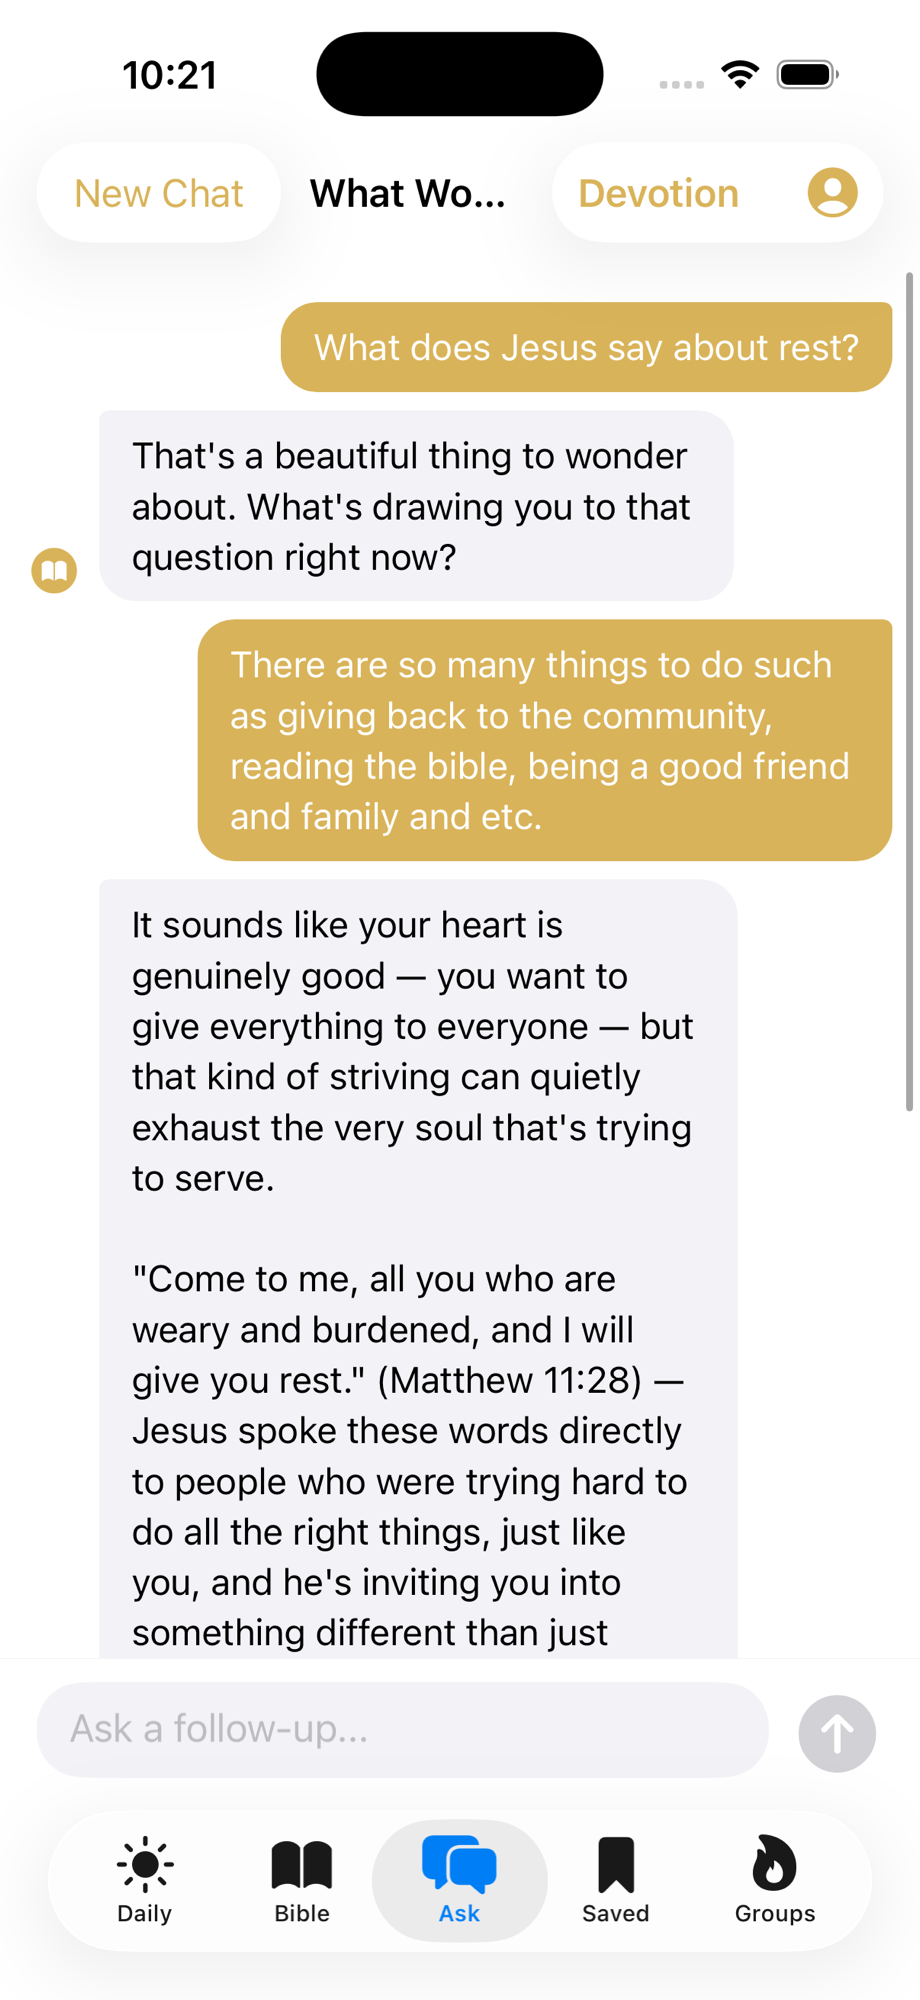
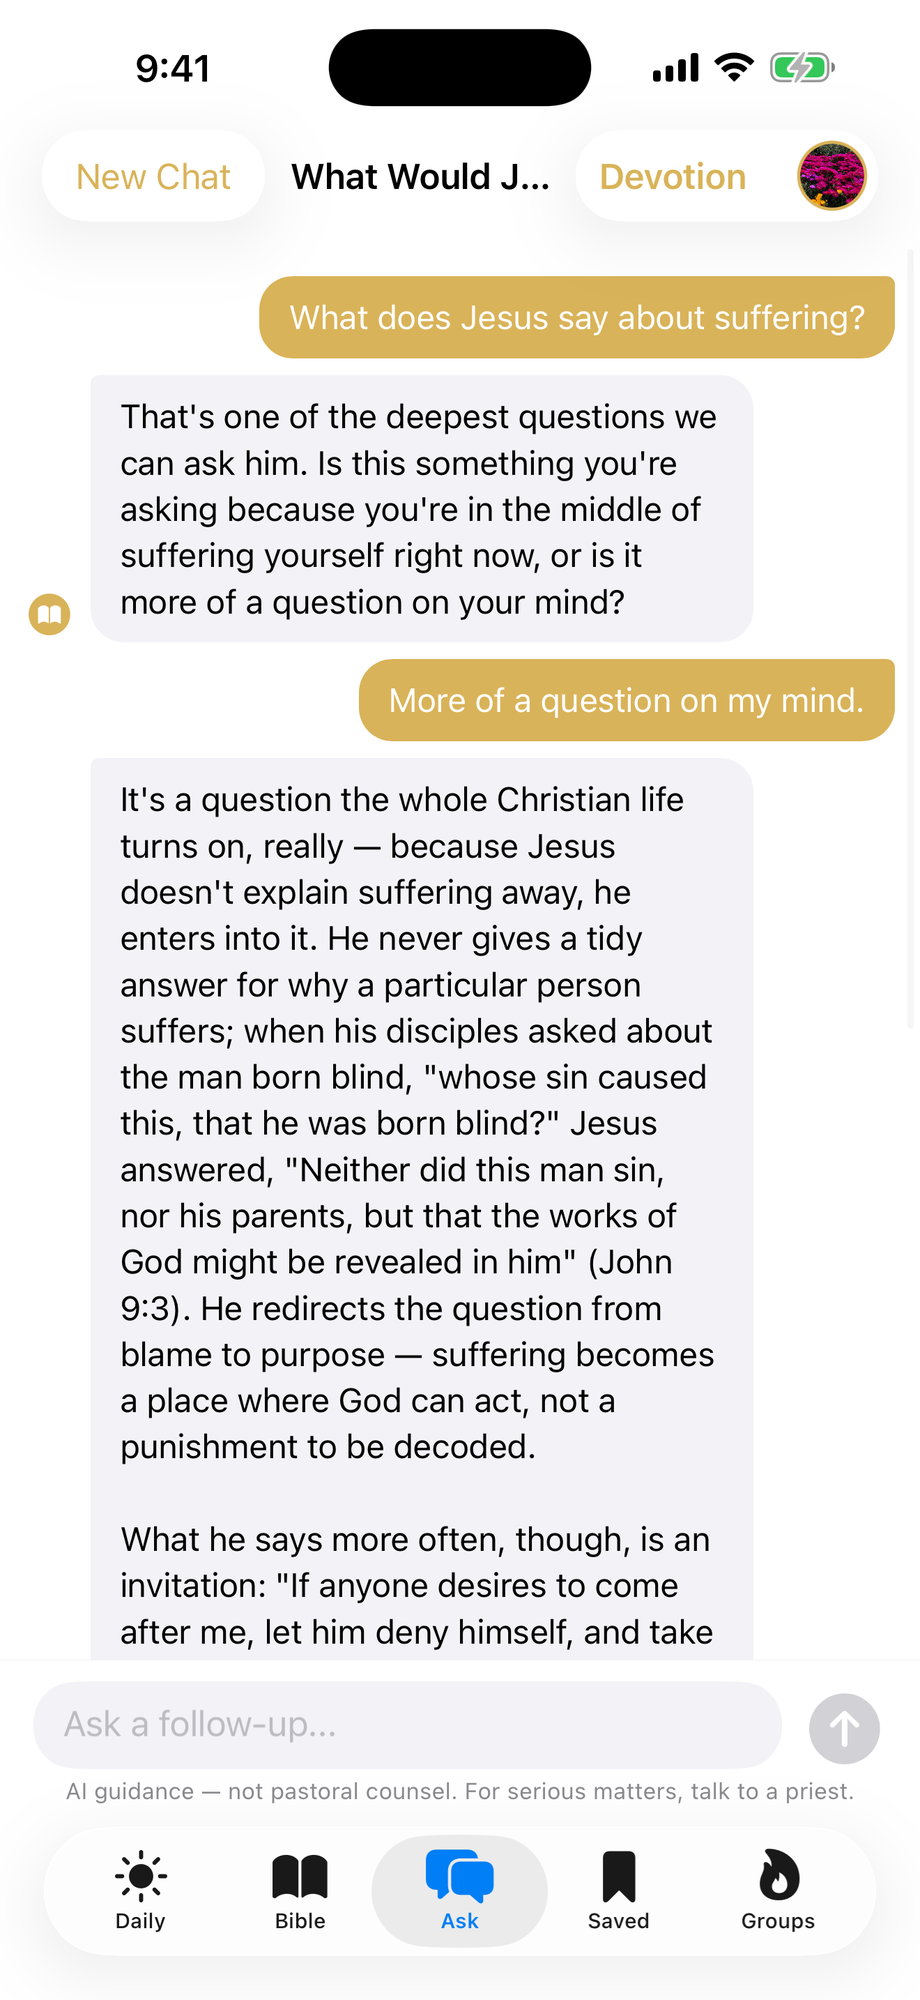
Present Cana as the Catholic Bible app it now is
Cana 2.0 is a Catholic app. The homepage now leads with what a Catholic opens it
for — today's Mass readings, a reflection on the Gospel, the saint of the day —
and describes the 73-book Bible (Douay-Rheims and the World English Bible
Catholic Edition) with explanations drawn from the Church Fathers and the
Catechism, in place of 8 translations / 66 books / Daily Verse. New title and
sharing tags, feature cards (Saint of the Day replaces Saved Verses), screenshot
captions, pricing lines (35,000+ explanations), and St. Jerome's "Ignorance of
the Scriptures is ignorance of Christ" in place of Romans 10:17.

The screenshots are the new 2.0 ones: Gospel Reflection, Verse Insight, Ask,
a devotional, and a group study on John 2.

Support: the daily readings rather than the daily verse; that AI features send
what you write to Anthropic and Magisterium AI, with permission asked first;
and in-app account deletion, which has replaced emailing us.

Claude-Session: https://claude.ai/code/session_012oKPPFvsRidmgTwPs8PFH5

diff --git a/index.html b/index.html
@@ -3,17 +3,17 @@
 <head>
   <meta charset="UTF-8" />
   <meta name="viewport" content="width=device-width, initial-scale=1.0" />
-  <title>Cana — Bible Chat, Study & Devotional</title>
-  <meta name="description" content="AI-powered Bible chat, daily devotionals, and Scripture study across 8 translations. Cana brings the Word to life on your iPhone." />
+  <title>Cana — Catholic Bible, Daily Mass Readings &amp; Saints</title>
+  <meta name="description" content="Today's Mass readings, a reflection on the Gospel, the saint of the day, and the complete 73-book Catholic Bible — explained the way the Church reads it." />
   <meta name="theme-color" content="#FAF5E5" />
 
   <!-- Open Graph / social -->
   <meta property="og:type" content="website" />
-  <meta property="og:title" content="Cana — Bible Chat, Study & Devotional" />
-  <meta property="og:description" content="AI-powered Bible chat, daily devotionals, and Scripture study across 8 translations." />
+  <meta property="og:title" content="Cana — Catholic Bible, Daily Mass Readings &amp; Saints" />
+  <meta property="og:description" content="Today's Mass readings, a reflection on the Gospel, the saint of the day, and the complete 73-book Catholic Bible — explained the way the Church reads it." />
   <meta name="twitter:card" content="summary_large_image" />
-  <meta name="twitter:title" content="Cana — Bible Chat, Study & Devotional" />
-  <meta name="twitter:description" content="AI-powered Bible chat, daily devotionals, and Scripture study across 8 translations." />
+  <meta name="twitter:title" content="Cana — Catholic Bible, Daily Mass Readings &amp; Saints" />
+  <meta name="twitter:description" content="Today's Mass readings, a reflection on the Gospel, the saint of the day, and the complete 73-book Catholic Bible — explained the way the Church reads it." />
   <style>
     /* ── Tokens ── */
     :root {
@@ -439,11 +439,11 @@
         Now Available on iPhone
       </div>
 
-      <h1 id="hero-heading">Bible Chat,<br>Study &amp; <em>Devotional.</em></h1>
+      <h1 id="hero-heading">Pray with Scripture,<br><em>every day.</em></h1>
 
       <p class="hero-sub">
-        Ask anything grounded in Scripture. Read 8 offline translations.
-        Grow daily with devotionals and plans built for real life.
+        Today's Mass readings, a reflection on the Gospel, and the saint of the day —
+        with the complete Catholic Bible, explained the way the Church reads it.
       </p>
 
       <div class="hero-ctas">
@@ -459,12 +459,12 @@
     <div class="hero-visual" aria-hidden="true">
       <div class="hero-phone-primary">
         <div class="iphone">
-          <img src="screenshots/ask.png" alt="Cana Ask feature — AI Bible chat screen" loading="eager" width="920" height="2000" />
+          <img src="screenshots/gospel-reflection.png" alt="Cana's daily Gospel Reflection" loading="eager" width="920" height="2000" />
         </div>
       </div>
       <div class="hero-phone-secondary">
         <div class="iphone">
-          <img src="screenshots/daily-verse.png" alt="Cana Daily Verse screen" loading="lazy" width="920" height="2000" />
+          <img src="screenshots/verse-insight.png" alt="A verse explained with the Church Fathers" loading="lazy" width="920" height="2000" />
         </div>
       </div>
     </div>
@@ -476,7 +476,7 @@
     <div class="trust-inner">
       <div class="trust-item">
         <svg width="18" height="18" viewBox="0 0 24 24" fill="none" stroke="currentColor" stroke-width="2" stroke-linecap="round" stroke-linejoin="round" aria-hidden="true"><path d="M2 3h6a4 4 0 0 1 4 4v14a3 3 0 0 0-3-3H2z"/><path d="M22 3h-6a4 4 0 0 0-4 4v14a3 3 0 0 1 3-3h7z"/></svg>
-        8 Bible Translations
+        73-Book Catholic Bible
       </div>
       <div class="trust-item">
         <svg width="18" height="18" viewBox="0 0 24 24" fill="none" stroke="currentColor" stroke-width="2" stroke-linecap="round" stroke-linejoin="round" aria-hidden="true"><path d="M1 6v16l7-4 8 4 7-4V2l-7 4-8-4-7 4z"/><path d="M8 2v16"/><path d="M16 6v16"/></svg>
@@ -488,7 +488,7 @@
       </div>
       <div class="trust-item">
         <svg width="18" height="18" viewBox="0 0 24 24" fill="none" stroke="currentColor" stroke-width="2" stroke-linecap="round" stroke-linejoin="round" aria-hidden="true"><circle cx="12" cy="12" r="10"/><polyline points="12 6 12 12 16 14"/></svg>
-        New Devotional Every Day
+        Daily Mass Readings
       </div>
     </div>
   </div>
@@ -506,23 +506,23 @@
           <svg width="26" height="26" viewBox="0 0 24 24" fill="none" stroke="currentColor" stroke-width="2" stroke-linecap="round" stroke-linejoin="round"><path d="M21 15a2 2 0 0 1-2 2H7l-4 4V5a2 2 0 0 1 2-2h14a2 2 0 0 1 2 2z"/></svg>
         </div>
         <h3>Ask</h3>
-        <p>Chat with an AI grounded in Scripture. Get guidance, explore passages, and ask anything about your faith — answered with chapter and verse.</p>
+        <p>Bring a question or something you're carrying. Cana answers from Scripture and the Catholic faith, and suggests a concrete next step.</p>
       </div>
 
       <div class="feature-card fade-up">
         <div class="feature-icon" aria-hidden="true">
           <svg width="26" height="26" viewBox="0 0 24 24" fill="none" stroke="currentColor" stroke-width="2" stroke-linecap="round" stroke-linejoin="round"><path d="M2 3h6a4 4 0 0 1 4 4v14a3 3 0 0 0-3-3H2z"/><path d="M22 3h-6a4 4 0 0 0-4 4v14a3 3 0 0 1 3-3h7z"/></svg>
         </div>
-        <h3>Bible Reader</h3>
-        <p>All 66 books across 8 offline translations — KJV, BSB, WEB, ASV, and more. Clean, distraction-free typography built for reading.</p>
+        <h3>The Catholic Bible</h3>
+        <p>All 73 books, in the Douay-Rheims or the World English Bible (Catholic Edition), fully offline — with an explanation for every verse drawn from the Church Fathers and the Catechism.</p>
       </div>
 
       <div class="feature-card fade-up">
         <div class="feature-icon" aria-hidden="true">
           <svg width="26" height="26" viewBox="0 0 24 24" fill="none" stroke="currentColor" stroke-width="2" stroke-linecap="round" stroke-linejoin="round"><circle cx="12" cy="12" r="5"/><line x1="12" y1="1" x2="12" y2="3"/><line x1="12" y1="21" x2="12" y2="23"/><line x1="4.22" y1="4.22" x2="5.64" y2="5.64"/><line x1="18.36" y1="18.36" x2="19.78" y2="19.78"/><line x1="1" y1="12" x2="3" y2="12"/><line x1="21" y1="12" x2="23" y2="12"/><line x1="4.22" y1="19.78" x2="5.64" y2="18.36"/><line x1="18.36" y1="5.64" x2="19.78" y2="4.22"/></svg>
         </div>
-        <h3>Daily Verse</h3>
-        <p>Start each morning with a curated verse, devotional, and reflection question. A quiet moment with Scripture before the noise starts.</p>
+        <h3>Daily Mass Readings</h3>
+        <p>The day's readings, following the liturgical calendar, and a reflection on the Gospel: what's happening, how the Church reads it, and what it asks of you.</p>
       </div>
 
       <div class="feature-card fade-up">
@@ -530,15 +530,15 @@
           <svg width="26" height="26" viewBox="0 0 24 24" fill="none" stroke="currentColor" stroke-width="2" stroke-linecap="round" stroke-linejoin="round"><path d="M3 18v-6a9 9 0 0 1 18 0v6"/><path d="M21 19a2 2 0 0 1-2 2h-1a2 2 0 0 1-2-2v-3a2 2 0 0 1 2-2h3zM3 19a2 2 0 0 0 2 2h1a2 2 0 0 0 2-2v-3a2 2 0 0 0-2-2H3z"/></svg>
         </div>
         <h3>Devotionals</h3>
-        <p>AI-guided devotional sessions and multi-day plans for whatever you're walking through — anxiety, gratitude, grief, doubt, and more.</p>
+        <p>Turn a conversation into a devotional to pray with, or a multi-day plan for whatever you're walking through — grief, doubt, gratitude, forgiveness.</p>
       </div>
 
       <div class="feature-card fade-up">
         <div class="feature-icon" aria-hidden="true">
           <svg width="26" height="26" viewBox="0 0 24 24" fill="none" stroke="currentColor" stroke-width="2" stroke-linecap="round" stroke-linejoin="round"><path d="M19 21l-7-5-7 5V5a2 2 0 0 1 2-2h10a2 2 0 0 1 2 2z"/></svg>
         </div>
-        <h3>Saved Verses</h3>
-        <p>Bookmark passages that speak to you and add personal notes. Your highlights sync privately with iCloud — always there when you need them.</p>
+        <h3>Saint of the Day</h3>
+        <p>Meet the saints the Church remembers each day, with classic sacred art and a short biography of their life and witness.</p>
       </div>
 
       <div class="feature-card fade-up">
@@ -546,7 +546,7 @@
           <svg width="26" height="26" viewBox="0 0 24 24" fill="none" stroke="currentColor" stroke-width="2" stroke-linecap="round" stroke-linejoin="round"><path d="M17 21v-2a4 4 0 0 0-4-4H5a4 4 0 0 0-4 4v2"/><circle cx="9" cy="7" r="4"/><path d="M23 21v-2a4 4 0 0 0-3-3.87"/><path d="M16 3.13a4 4 0 0 1 0 7.75"/></svg>
         </div>
         <h3>Small Groups</h3>
-        <p>Study Scripture together. Share verses, reflections, and guided group prompts with your church small group or a circle of friends.</p>
+        <p>Run a Bible study with your parish group or friends: a ready-made guide with historical context, how the Church reads the passage, and questions to discuss.</p>
       </div>
 
     </div>
@@ -557,7 +557,7 @@
     <div class="screenshots-inner">
       <div class="screenshots-header fade-up">
         <p class="section-eyebrow">✦ See It in Action</p>
-        <h2 class="section-heading" id="screenshots-heading">More than a Bible app.<br>Built for everyday faith.</h2>
+        <h2 class="section-heading" id="screenshots-heading">Scripture, read with<br>the Church.</h2>
         <p class="section-sub">Five ways Cana meets you where you are.</p>
       </div>
 
@@ -565,47 +565,47 @@
 
         <div class="screenshot-item fade-up">
           <div class="iphone">
-            <img src="screenshots/daily-verse.png" alt="Daily Verse screen showing today's scripture and devotional" loading="lazy" width="920" height="2000" />
+            <img src="screenshots/gospel-reflection.png" alt="The daily Gospel Reflection" loading="lazy" width="920" height="2000" />
           </div>
-          <p class="screenshot-label">Daily</p>
-          <p class="screenshot-title">Verse &amp; Devotional</p>
-          <p class="screenshot-desc">A curated verse, reflection, and devotional — every morning.</p>
+          <p class="screenshot-label">Today</p>
+          <p class="screenshot-title">Gospel Reflection</p>
+          <p class="screenshot-desc">The day's readings, then a reflection on the Gospel — every day of the year.</p>
         </div>
 
         <div class="screenshot-item fade-up">
           <div class="iphone">
-            <img src="screenshots/bible-reader.png" alt="Bible Reader showing Job 12 in KJV with verse numbers" loading="lazy" width="920" height="2000" />
+            <img src="screenshots/verse-insight.png" alt="John 3:2 explained with St. Thomas Aquinas, St. Augustine and St. John Chrysostom" loading="lazy" width="920" height="2000" />
           </div>
           <p class="screenshot-label">Bible</p>
-          <p class="screenshot-title">8 Translations, Offline</p>
-          <p class="screenshot-desc">Read KJV, BSB, WEB, and five more. The whole Bible, no Wi-Fi needed.</p>
+          <p class="screenshot-title">The Fathers on Every Verse</p>
+          <p class="screenshot-desc">All 73 books, explained the way the Church reads them. No Wi-Fi needed.</p>
         </div>
 
         <div class="screenshot-item fade-up">
           <div class="iphone">
-            <img src="screenshots/ask.png" alt="Ask screen showing a scripture-grounded AI conversation about rest" loading="lazy" width="920" height="2000" />
+            <img src="screenshots/ask.png" alt="Ask: a conversation about suffering, answered from Scripture" loading="lazy" width="920" height="2000" />
           </div>
           <p class="screenshot-label">Ask</p>
-          <p class="screenshot-title">Scripture-Grounded AI</p>
-          <p class="screenshot-desc">Ask anything about faith or life. Every answer cites chapter and verse.</p>
+          <p class="screenshot-title">Bring Your Questions</p>
+          <p class="screenshot-desc">Answered from Scripture and the Catholic faith — warmly, and with a next step.</p>
         </div>
 
         <div class="screenshot-item fade-up">
           <div class="iphone">
-            <img src="screenshots/devotional-plan.png" alt="Devotional Plan showing a multi-day study with daily verses" loading="lazy" width="920" height="2000" />
+            <img src="screenshots/devotional.png" alt="A devotional on suffering, made from a conversation" loading="lazy" width="920" height="2000" />
           </div>
-          <p class="screenshot-label">Plans</p>
-          <p class="screenshot-title">Multi-Day Plans</p>
-          <p class="screenshot-desc">Guided plans for what you're walking through — anxiety, doubt, gratitude, grief.</p>
+          <p class="screenshot-label">Devotionals</p>
+          <p class="screenshot-title">From Conversation to Prayer</p>
+          <p class="screenshot-desc">A devotional, or a multi-day plan, for what you're carrying.</p>
         </div>
 
         <div class="screenshot-item fade-up">
           <div class="iphone">
-            <img src="screenshots/small-groups.png" alt="Small Groups feature showing Tonight's Prompt for group Bible study" loading="lazy" width="920" height="2000" />
+            <img src="screenshots/group-study.png" alt="A group study on John 2, the wedding at Cana" loading="lazy" width="920" height="2000" />
           </div>
           <p class="screenshot-label">Groups</p>
-          <p class="screenshot-title">Small Group Study</p>
-          <p class="screenshot-desc">Run guided sessions with friends — icebreaker, Word, prayer, and challenge.</p>
+          <p class="screenshot-title">Study Together</p>
+          <p class="screenshot-desc">Guided sessions for your parish group — icebreaker, Word, prayer, and challenge.</p>
         </div>
 
       </div>
@@ -626,9 +626,10 @@
         <div class="plan-price">$0</div>
         <p class="plan-note">No account needed to read.</p>
         <ul>
-          <li>The whole Bible, 8 translations, fully offline</li>
-          <li>33,000+ verse explanations, written in advance</li>
-          <li>Verse of the day, with a home screen widget</li>
+          <li>The complete 73-book Catholic Bible, fully offline</li>
+          <li>35,000+ verse explanations, drawing on the Fathers and the Catechism</li>
+          <li>Daily Mass readings, Gospel reflection and Saint of the Day</li>
+          <li>A "Today's Gospel" home screen widget</li>
           <li>Unlimited bookmarks</li>
           <li>Join any group and take part fully</li>
           <li>5 Ask conversations a day</li>
@@ -658,16 +659,16 @@
   <section class="quote-section" aria-label="Scripture">
     <span class="quote-mark" aria-hidden="true">"</span>
     <blockquote>
-      So faith comes from hearing, and hearing through the word of Christ.
+      Ignorance of the Scriptures is ignorance of Christ.
     </blockquote>
-    <cite>— Romans 10:17</cite>
+    <cite>— St. Jerome</cite>
   </section>
 
   <!-- ── CTA ── -->
   <section class="cta-section" aria-labelledby="cta-heading">
     <p class="section-eyebrow">✦ Begin Today</p>
-    <h2 class="section-heading" id="cta-heading">Your daily walk with Scripture starts here.</h2>
-    <p class="section-sub">Free to download. Read the whole Bible offline. No subscription.</p>
+    <h2 class="section-heading" id="cta-heading">Pray with the Church's Scripture, every day.</h2>
+    <p class="section-sub">Free to download. The daily readings and the whole Catholic Bible, no subscription.</p>
     <a href="#" class="btn-gold" id="cta-bottom" aria-label="Download Cana on the App Store">
       <svg width="18" height="18" viewBox="0 0 24 24" fill="currentColor" aria-hidden="true"><path d="M18.71 19.5c-.83 1.24-1.71 2.45-3.05 2.47-1.34.03-1.77-.79-3.29-.79-1.53 0-2 .77-3.27.82-1.31.05-2.3-1.32-3.14-2.53C4.25 17 2.94 12.45 4.7 9.39c.87-1.52 2.43-2.48 4.12-2.51 1.28-.02 2.5.87 3.29.87.78 0 2.26-1.07 3.8-.91.65.03 2.47.26 3.64 1.98-.09.06-2.17 1.28-2.15 3.81.03 3.02 2.65 4.03 2.68 4.04-.03.07-.42 1.44-1.38 2.83M13 3.5c.73-.83 1.94-1.46 2.94-1.5.13 1.17-.34 2.35-1.04 3.19-.69.85-1.83 1.51-2.95 1.42-.15-1.15.41-2.35 1.05-3.11z"/></svg>
       Download Free on the App Store

diff --git a/support.html b/support.html
@@ -112,7 +112,8 @@
 
 <details>
   <summary>Can I use Cana without an account?</summary>
-  <p>Yes. Reading the Bible, verse explanations, and the daily verse all work without
+  <p>Yes. Reading the Bible, verse explanations, and the daily readings, reflection and
+  saints all work without
   signing in. Ask, Saved, and Groups need Sign in with Apple, because they sync across
   your devices or involve other people.</p>
 </details>
@@ -122,14 +123,21 @@
   <p>Your Ask conversations, bookmarks, and devotionals are stored in your own iCloud
   account. We can't read them. Group content — prayer requests, shared notes — is
   visible to the other members of that group.</p>
+  <p>To write its answers, devotionals, plans and group studies, Cana sends what you
+  write to its AI services, Anthropic and Magisterium AI — never your name, email or
+  account. Cana asks your permission before the first time, and you can change it
+  under <strong>AI &amp; Privacy</strong> in the profile menu.</p>
   <p>Full detail is in our <a href="/privacy">Privacy Policy</a>.</p>
 </details>
 
 <details>
   <summary>How do I delete my account?</summary>
-  <p>Email us from the address on your account and we'll remove your account, profile,
-  and group memberships. Content you posted in a group may remain visible to that group
-  as part of its history.</p>
+  <p>Open the profile menu — your picture at the top of the screen — and tap
+  <strong>Delete Account</strong>. It permanently removes your profile and your
+  contributions. Groups you lead stay for their other members, and a group's record of
+  having met may remain.</p>
+  <p>Deleting your account doesn't cancel Cana Plus — only Apple can. Cancel it first
+  (see above), or email us if you'd rather we help.</p>
 </details>
 
 <details>
